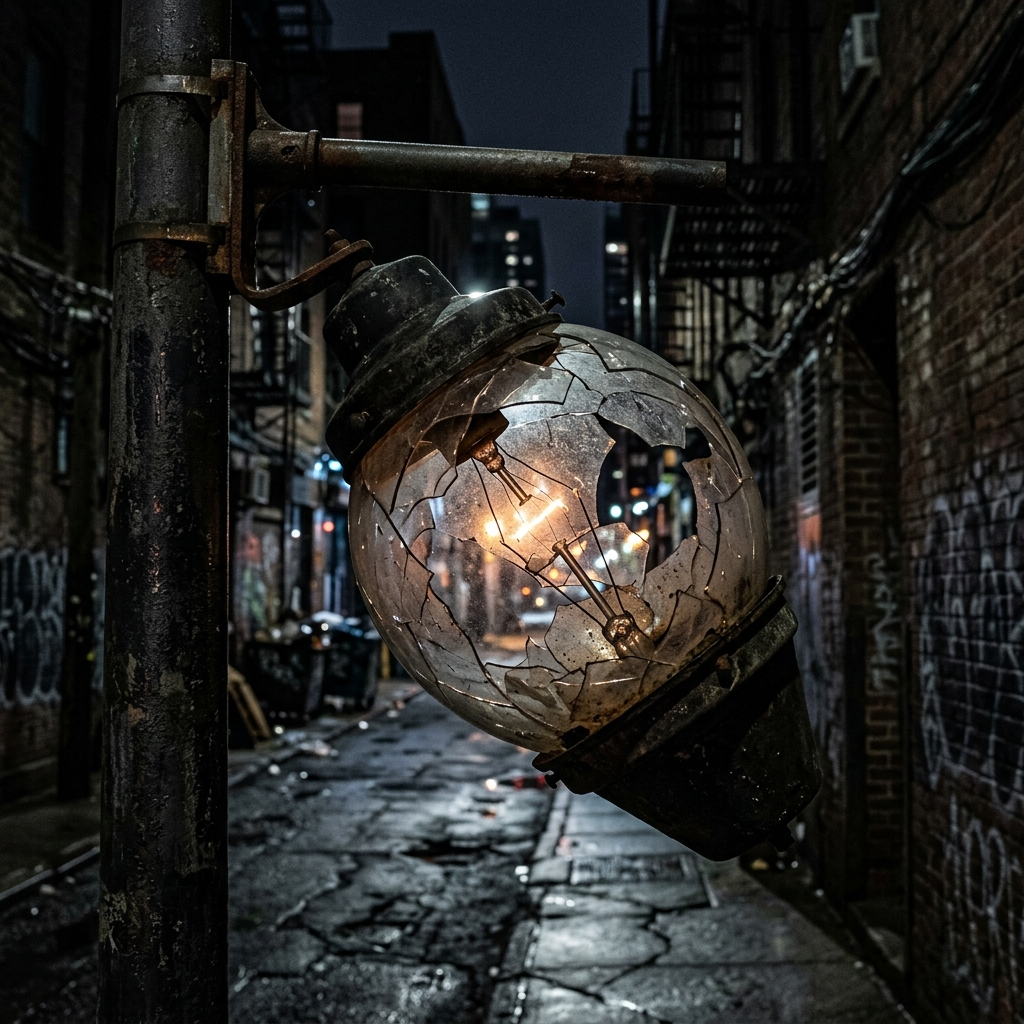
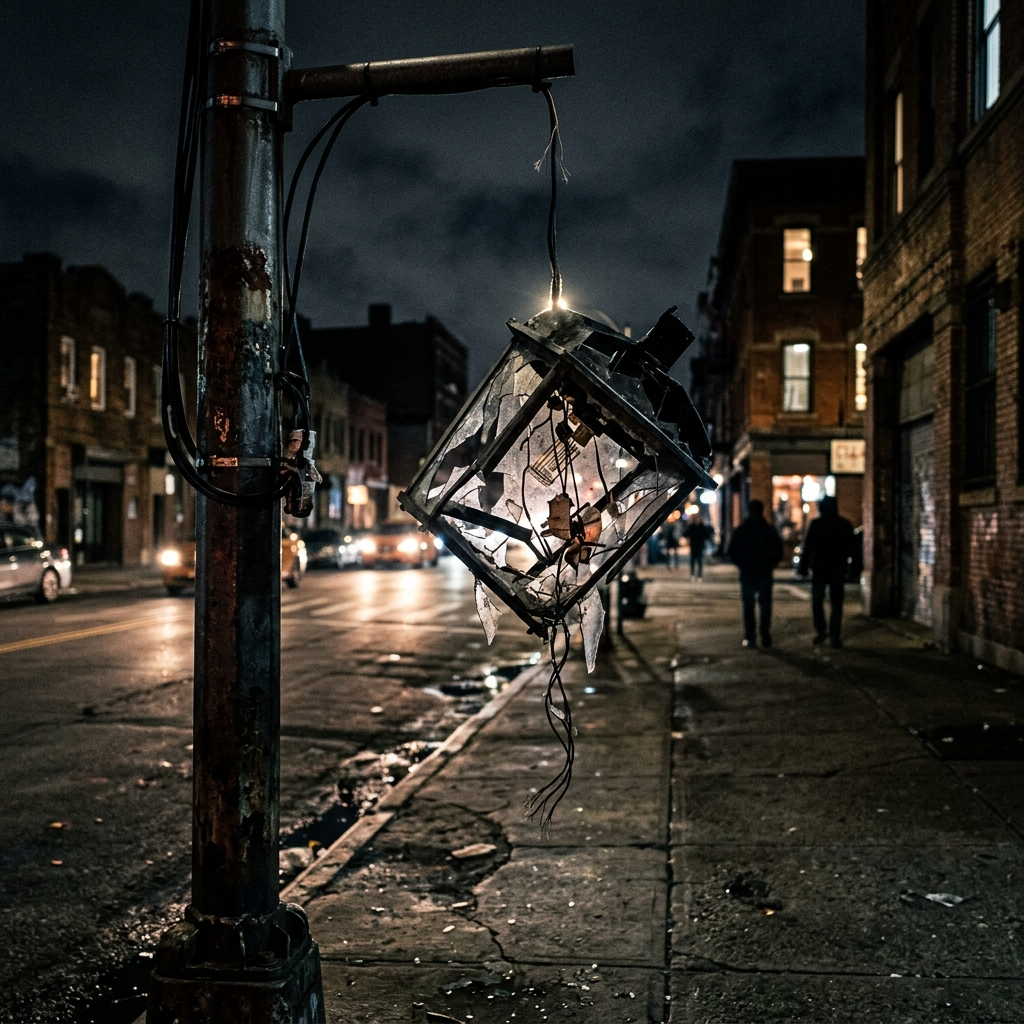
refactor: organize documentation and test assets into dedicated directories

diff --git a/frontend/src/components/polaris/Process.tsx b/frontend/src/components/polaris/Process.tsx
@@ -397,9 +397,18 @@ export function Process() {
               </div>
 
               <div className="mt-8 font-mono text-[11px] text-slate-muted space-y-1.5 pt-6 border-t border-border-subtle">
-                <div>03 · stages</div>
-                <div>04 · agent classes</div>
-                <div>∞ · signals/sec</div>
+                <div className="flex items-center gap-3">
+                  <div className="size-1.5 invisible" />
+                  <span>03 · stages</span>
+                </div>
+                <div className="flex items-center gap-3">
+                  <div className="size-1.5 invisible" />
+                  <span>04 · agent classes</span>
+                </div>
+                <div className="flex items-center gap-3">
+                  <div className="size-1.5 invisible" />
+                  <span>∞ · signals/sec</span>
+                </div>
               </div>
             </div>
           </div>